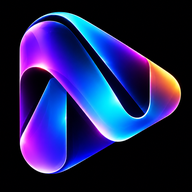
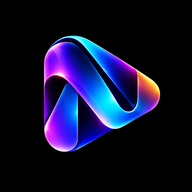
تصغير رمز أيقونة التطبيق ليتناسب مع أيقونات الهاتف
Claude-Session: https://claude.ai/code/session_014dW5o36rsZKqKGoiNDqnvU

diff --git a/public/sw.js b/public/sw.js
@@ -1,6 +1,6 @@
 // عامل خدمة بسيط: يجعل المنصة قابلة للتثبيت ويعرض صفحة بديلة عند انقطاع الإنترنت.
 // لا يخزّن الفيديو ولا واجهات API ولا الصفحات (المحتوى خاص بكل مشترك).
-const CACHE = "shell-v3";
+const CACHE = "shell-v4";
 const OFFLINE = "/offline.html";
 
 self.addEventListener("install", (e) => {
